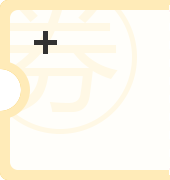
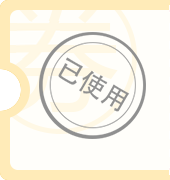
礼券更新 我的投资展示加息

Changed region(s): [[0.1765, 0.1667, 0.8824, 0.7778], [0.4118, 0.25, 0.4706, 0.2778]]

diff --git a/routes/My/components/InvestRecordList.js b/routes/My/components/InvestRecordList.js
@@ -139,6 +139,7 @@ class InvestRecordList extends Component {
         const shortTitleStyle={
             width:'50%'
         }
+
         return(
             <div className="invest-record-item" key={index}>
                 <div className={`invest-type-icon-${item.productType}`}></div>
@@ -165,7 +166,7 @@ class InvestRecordList extends Component {
                         <div className="item-record-detail">
                             <div className="part-1">
                                 <p>预计年化收益</p>
-                                <p>{item.productRate+'%'}</p>
+                                <p>{item.productRate+'%'}{item.addRate? <span className="invest-record-money"> + {item.addRate}%</span> : ''}</p>
                             </div>
                             <div className="part-2">
                                 <p>投资金额</p>
@@ -173,7 +174,35 @@ class InvestRecordList extends Component {
                             </div>
                             <div className="part-3">
                                 <p>预期收益</p>
-                                <p className="invest-record-money">{calSY({money:item.actualMoney,rate:item.productRate,productCycle:item.productCycle,type:item.productType})}</p>
+                                <p className="invest-record-money">
+                                    {
+                                        /* 计算利息时分开原利息与加息卡计算，最后再相加 */
+                                        item.addRate ?
+                                        parseFloat(calSY(
+                                            {
+                                                money:item.actualMoney,
+                                                rate:item.productRate,
+                                                productCycle:item.productCycle,
+                                                type:item.productType
+                                            }
+                                        )) + parseFloat(calSY(
+                                            {
+                                                money:item.actualMoney,
+                                                rate:item.addRate || 0,
+                                                productCycle:item.productCycle,
+                                                type:item.productType
+                                            }
+                                        )) : parseFloat(calSY(
+                                            {
+                                                money:item.actualMoney,
+                                                rate:item.productRate,
+                                                productCycle:item.productCycle,
+                                                type:item.productType
+                                            }
+                                        ))
+
+                                    }
+                                </p>
                             </div>
                         </div>
                         <p className="p2">

diff --git a/routes/Financial/components/InvestConfirmSelectCouponPage.js b/routes/Financial/components/InvestConfirmSelectCouponPage.js
@@ -49,7 +49,7 @@ export default class InvestConfirmSelectCouponPage extends Component{
                         </div>
                         <div className={`coupon-type-2`}>
                             <div className="part-1">
-                                <img src="/static/img/coupon_type2_bg_2.png"/>
+                                <img src="/static/img/coupon_type1_bg_2.png"/>
                                 <div>
                                     <p>有效时间：{item.validTime}</p>
                                     <p>适用范围：{item.scope}</p>
@@ -57,7 +57,7 @@ export default class InvestConfirmSelectCouponPage extends Component{
                                 </div>
                             </div>
                             <div className="part-2">
-                                <img src="/static/img/coupon_type2_bg_1.png"/>
+                                <img src="/static/img/coupon_type1_bg_1.png"/>
                                 <div>
                                     <p className="p1">{item.money}</p>
                                     <p className="p2">加息券</p>

diff --git a/routes/My/components/MyGiftDetailList.js b/routes/My/components/MyGiftDetailList.js
@@ -37,9 +37,9 @@ class GiftList extends Component{
 
         if(couponType==1){
             return (
-                <div className={`gift-item coupon-type-2`} key={index}>
+                <div className={`gift-item coupon-type-2 type${type}`} key={index}>
                     <div className="part-1">
-                        <img src="/static/img/coupon_type2_bg_2.png"/>
+                        <img src={`/static/img/coupon_type${type==3? 3 : 1}_bg_2.png`}/>
                         <div>
                             <p>有效时间：{item.validTime}</p>
                             <p>适用范围：{item.scope}</p>
@@ -47,7 +47,7 @@ class GiftList extends Component{
                         </div>
                     </div>
                     <div className="part-2">
-                        <img src="/static/img/coupon_type2_bg_1.png"/>
+                        <img src={`/static/img/coupon_type${type}_bg_1.png`}/>
                         <div>
                             <p className="p1">{item.money}</p>
                             <p className="p2">加息券</p>

diff --git a/less/financial.less b/less/financial.less
@@ -679,7 +679,9 @@
       border:1px solid #d7d8dd;
       border-radius:50%;
       &.selected{
-        background:#ff4343;
+        background:url("/static/img/tick.png") no-repeat center #ff4343;
+        background-size:50%;
+        border-color:#ff4343;
       }
     }
   }
@@ -688,7 +690,6 @@
   width:80%;
   height:110px;
   float: right;
-
   >.part-1{
     color:#fff;
     width:66.7%;
@@ -708,10 +709,9 @@
       top: 0;
       >p{
         margin-top:10px;
-        text-indent:5px;
+        padding-left:5px;
       }
     }
-
   }
   >.part-2{
     float: left;
@@ -730,7 +730,6 @@
       height:100%;
       left:0;
       top:0;
-
       >p{
         text-align: center;
         &.p1{
@@ -743,5 +742,14 @@
       }
     }
 
+  }
+  &.type2{
+    >.part-2{
+      >div{
+        >p{
+          color:#666
+        }
+      }
+    }
   }
 }

diff --git a/routes/Financial/components/InvestConfirmPage.js b/routes/Financial/components/InvestConfirmPage.js
@@ -126,7 +126,7 @@ export default class InvestConfirmPage extends Component{
                             this.context.router.push(`/financial/product/${props.params.productType}/${props.params.id}/confirm/coupon/2`)
                         }}  hasBorder={true}  rightText={this.showCouponType2.bind(this)()} hasIcon={true} />
 
-                        <TextButton text="抵用券" onClick={()=>{
+                        <TextButton text="投资抵扣" onClick={()=>{
                            this.context.router.push(`/financial/product/${props.params.productType}/${props.params.id}/confirm/coupon/3`)
                         }}  hasBorder={false}  rightText="无可用" hasIcon={true} />
 

diff --git a/routes/Home/components/HomePage.js b/routes/Home/components/HomePage.js
@@ -36,13 +36,18 @@ class HomePage extends Component {
         const {recommend} = this.props.index;
         const banner =[
             {
+                img:'/static/img/banner8.jpg',
+                link:'http://m.hoperbank.com/activity20161008.html',
+                title:''
+            },
+            {
                 img:'/static/img/banner5.jpg',
-                link:'#',
+                link:'',
                 title:''
             },
             {
                 img:'/static/img/banner4.jpg',
-                link:'#',
+                link:'',
                 title:''
             }
         ]

diff --git a/actions/myActions.js b/actions/myActions.js
@@ -53,7 +53,7 @@ export function clearInvestRecord(){
 /*获取*/
 export function fetchInvestRecord(opt){
     return (dispatch, getState) => {
-        return fetch(API.user.investmentrecord + `?userId=${Auth.getUserId()}&status=${opt.type}$curPage=${opt.curPage}`)
+        return fetch(API.user.investmentrecord + `?userId=${Auth.getUserId()}&status=${opt.type}&curPage=${opt.curPage}`)
             .then((res)=>res.json())
             .then((res)=>{
                 if(res.r==1){

diff --git a/routes/Financial/components/FinancialList.js b/routes/Financial/components/FinancialList.js
@@ -26,6 +26,7 @@ class FinancialList extends Component {
         const iScrollHeight = config.windowHeight - config.navHeight - config.tabBarHeight
         return(
             <ReactIScroll iScroll={iScroll}
+                          options={this.props.options}
                             style={{height:iScrollHeight,overflow:'hidden'}}
                             >
 

diff --git a/routes/My/components/MyInvestmentPage.js b/routes/My/components/MyInvestmentPage.js
@@ -12,12 +12,6 @@ class MyInvestmentPage extends Component {
         }
         this.setInvestId = this.setInvestId.bind(this);
     }
-    componentWillMount() {
-        console.log(this.props)
-    }
-    componentDidMount(){
-
-    }
     setInvestId(id){
         this.setState({
             investId:id

diff --git a/less/my.less b/less/my.less
@@ -293,6 +293,7 @@
   border-bottom:1px solid #dcdcdc;
   margin-top:-1px;
   background-color:#fff;
+  font-size:14px;
   >.my-deal-record-info{
     padding:10px;
     p{

diff --git a/index.js b/index.js
@@ -13,5 +13,3 @@ render(
   <Root store={store} history={history} />,
   document.getElementById('root')
 )
-var func = () => ({  foo: 1  });
-console.log(func())
